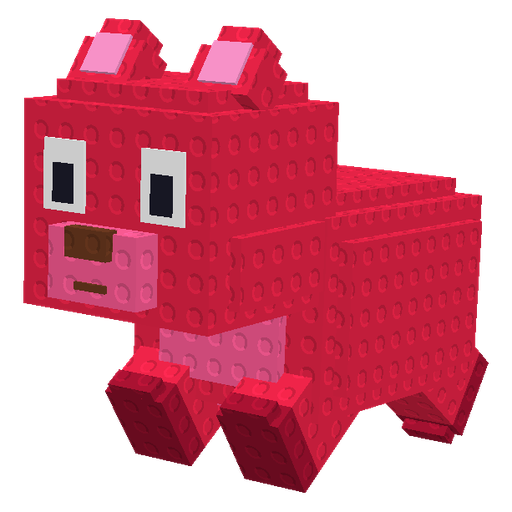
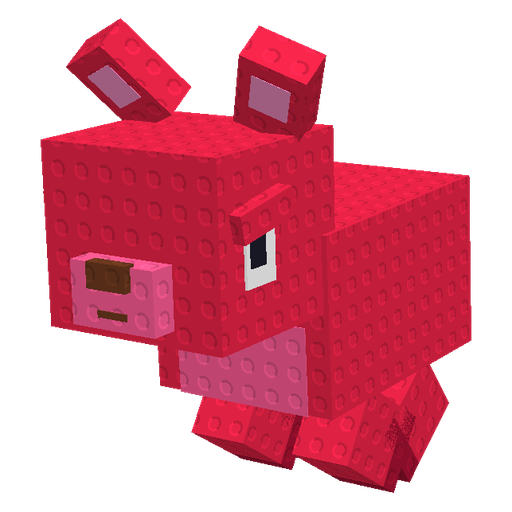
Gummy Bear: QM's hand-edited model (right ear moved to its own bone, duplicate part names renamed), converted with --zyx; headshot re-rendered
Claude-Session: https://claude.ai/code/session_01V1uwbUczyytaJcfZ2YgyYz

diff --git a/tools/pet_headshots.py b/tools/pet_headshots.py
@@ -53,7 +53,7 @@ MODELS = {
     "VolcanoTortoise": "volcano/VolcanoTortoise", "Firebird": "volcano/Firebird", "RockHog": "volcano/RockHog", "Rockworm": "volcano/Rockworm", "JadeStatue": "temple/JadeStatue", "GarnetStatue": "temple/GarnetStatue", "FireLobster": "volcano/FireLobster", "TRex": "jurassic/TRex", "BoneRex": "jurassic/BoneRex", "Ankylosaurus": "jurassic/Ankylosaurus", "PalmGuy": "jurassic/PalmGuy", "Spinosaurus": "jurassic/Spinosaurus", "Pterodactyl": "jurassic/Pterodactyl", "Raptor": "jurassic/Raptor", "LavaWhale": "volcano/LavaWhale", "Phoenix": "volcano/Phoenix",
     "GummyBear": "candyland/GummyBear", "GumdropFrog": "candyland/GumdropFrog", "GingerbreadMan": "candyland/GingerbreadMan", "Creampuff": "candyland/Creampuff", "SwollFairy": "candyland/SwollFairy", "DesireTroll": "candyland/DesireTroll", "RockCandyDragon": "candyland/RockCandyDragon", "GumballGolem": "candyland/GumballGolem", "Gigacorn": "candyland/Gigacorn",  # World 3 Candyland
 }
-ZYX = {"EagleSentry", "PinkButterfly", "Seraph", "CrimsonSeraph", "CrystalSeraph", "CrystalCentipede", "CrystalPhoenix", "CrystalElephant", "CrystalSpider", "BoneRex", "KingCrab", "BlueCrab", "RoboShark", "IceGolem", "SnackYak", "Loong", "WarElephant", "VolcanoTortoise", "Firebird", "RockHog", "Rockworm", "Phoenix", "LavaWhale", "Lionfish", "TRex", "Spinosaurus", "MajesticUnicorn", "Crocodile", "Maw", "IvorySpider", "BlackWidow", "Asura", "Lion", "OrangeButterfly", "Hawkmoth", "GreenCrab", "Parrot", "BananaMonkey", "TreasureHermit", "EyepatchShark", "TreasureTurtle", "GhostShip", "JollyRogerWyvern", "Ladybug", "Bumblebee", "ToadstoolFrog", "VineMonster", "VenusFlytrap", "SunflowerLion", "RafflesiaBeast", "AncientTreant", "GiantRafflesia", "MoonJellyfish", "Anomalocaris", "BoxJellyfish", "BlueRingOctopus", "ManOWar", "AbyssalDragon", "ReefTitan", "RoyalCnidarian"}  # converted with --zyx (QM's hand-made multi-axis rotations)
+ZYX = {"EagleSentry", "PinkButterfly", "Seraph", "CrimsonSeraph", "CrystalSeraph", "CrystalCentipede", "CrystalPhoenix", "CrystalElephant", "CrystalSpider", "BoneRex", "KingCrab", "BlueCrab", "RoboShark", "IceGolem", "SnackYak", "Loong", "WarElephant", "VolcanoTortoise", "Firebird", "RockHog", "Rockworm", "Phoenix", "LavaWhale", "Lionfish", "TRex", "Spinosaurus", "MajesticUnicorn", "Crocodile", "Maw", "IvorySpider", "BlackWidow", "Asura", "Lion", "OrangeButterfly", "Hawkmoth", "GreenCrab", "Parrot", "BananaMonkey", "TreasureHermit", "EyepatchShark", "TreasureTurtle", "GhostShip", "JollyRogerWyvern", "Ladybug", "Bumblebee", "ToadstoolFrog", "VineMonster", "VenusFlytrap", "SunflowerLion", "RafflesiaBeast", "AncientTreant", "GiantRafflesia", "MoonJellyfish", "Anomalocaris", "BoxJellyfish", "BlueRingOctopus", "ManOWar", "AbyssalDragon", "ReefTitan", "RoyalCnidarian", "GummyBear"}  # converted with --zyx (QM's hand-made multi-axis rotations)
 FACING = {"Kraken": 180}
 # Animals whose run makes a poor picture (the Snake stretches out thin, the Starfish
 # folds its arms up) keep their idle stance in the action style.
